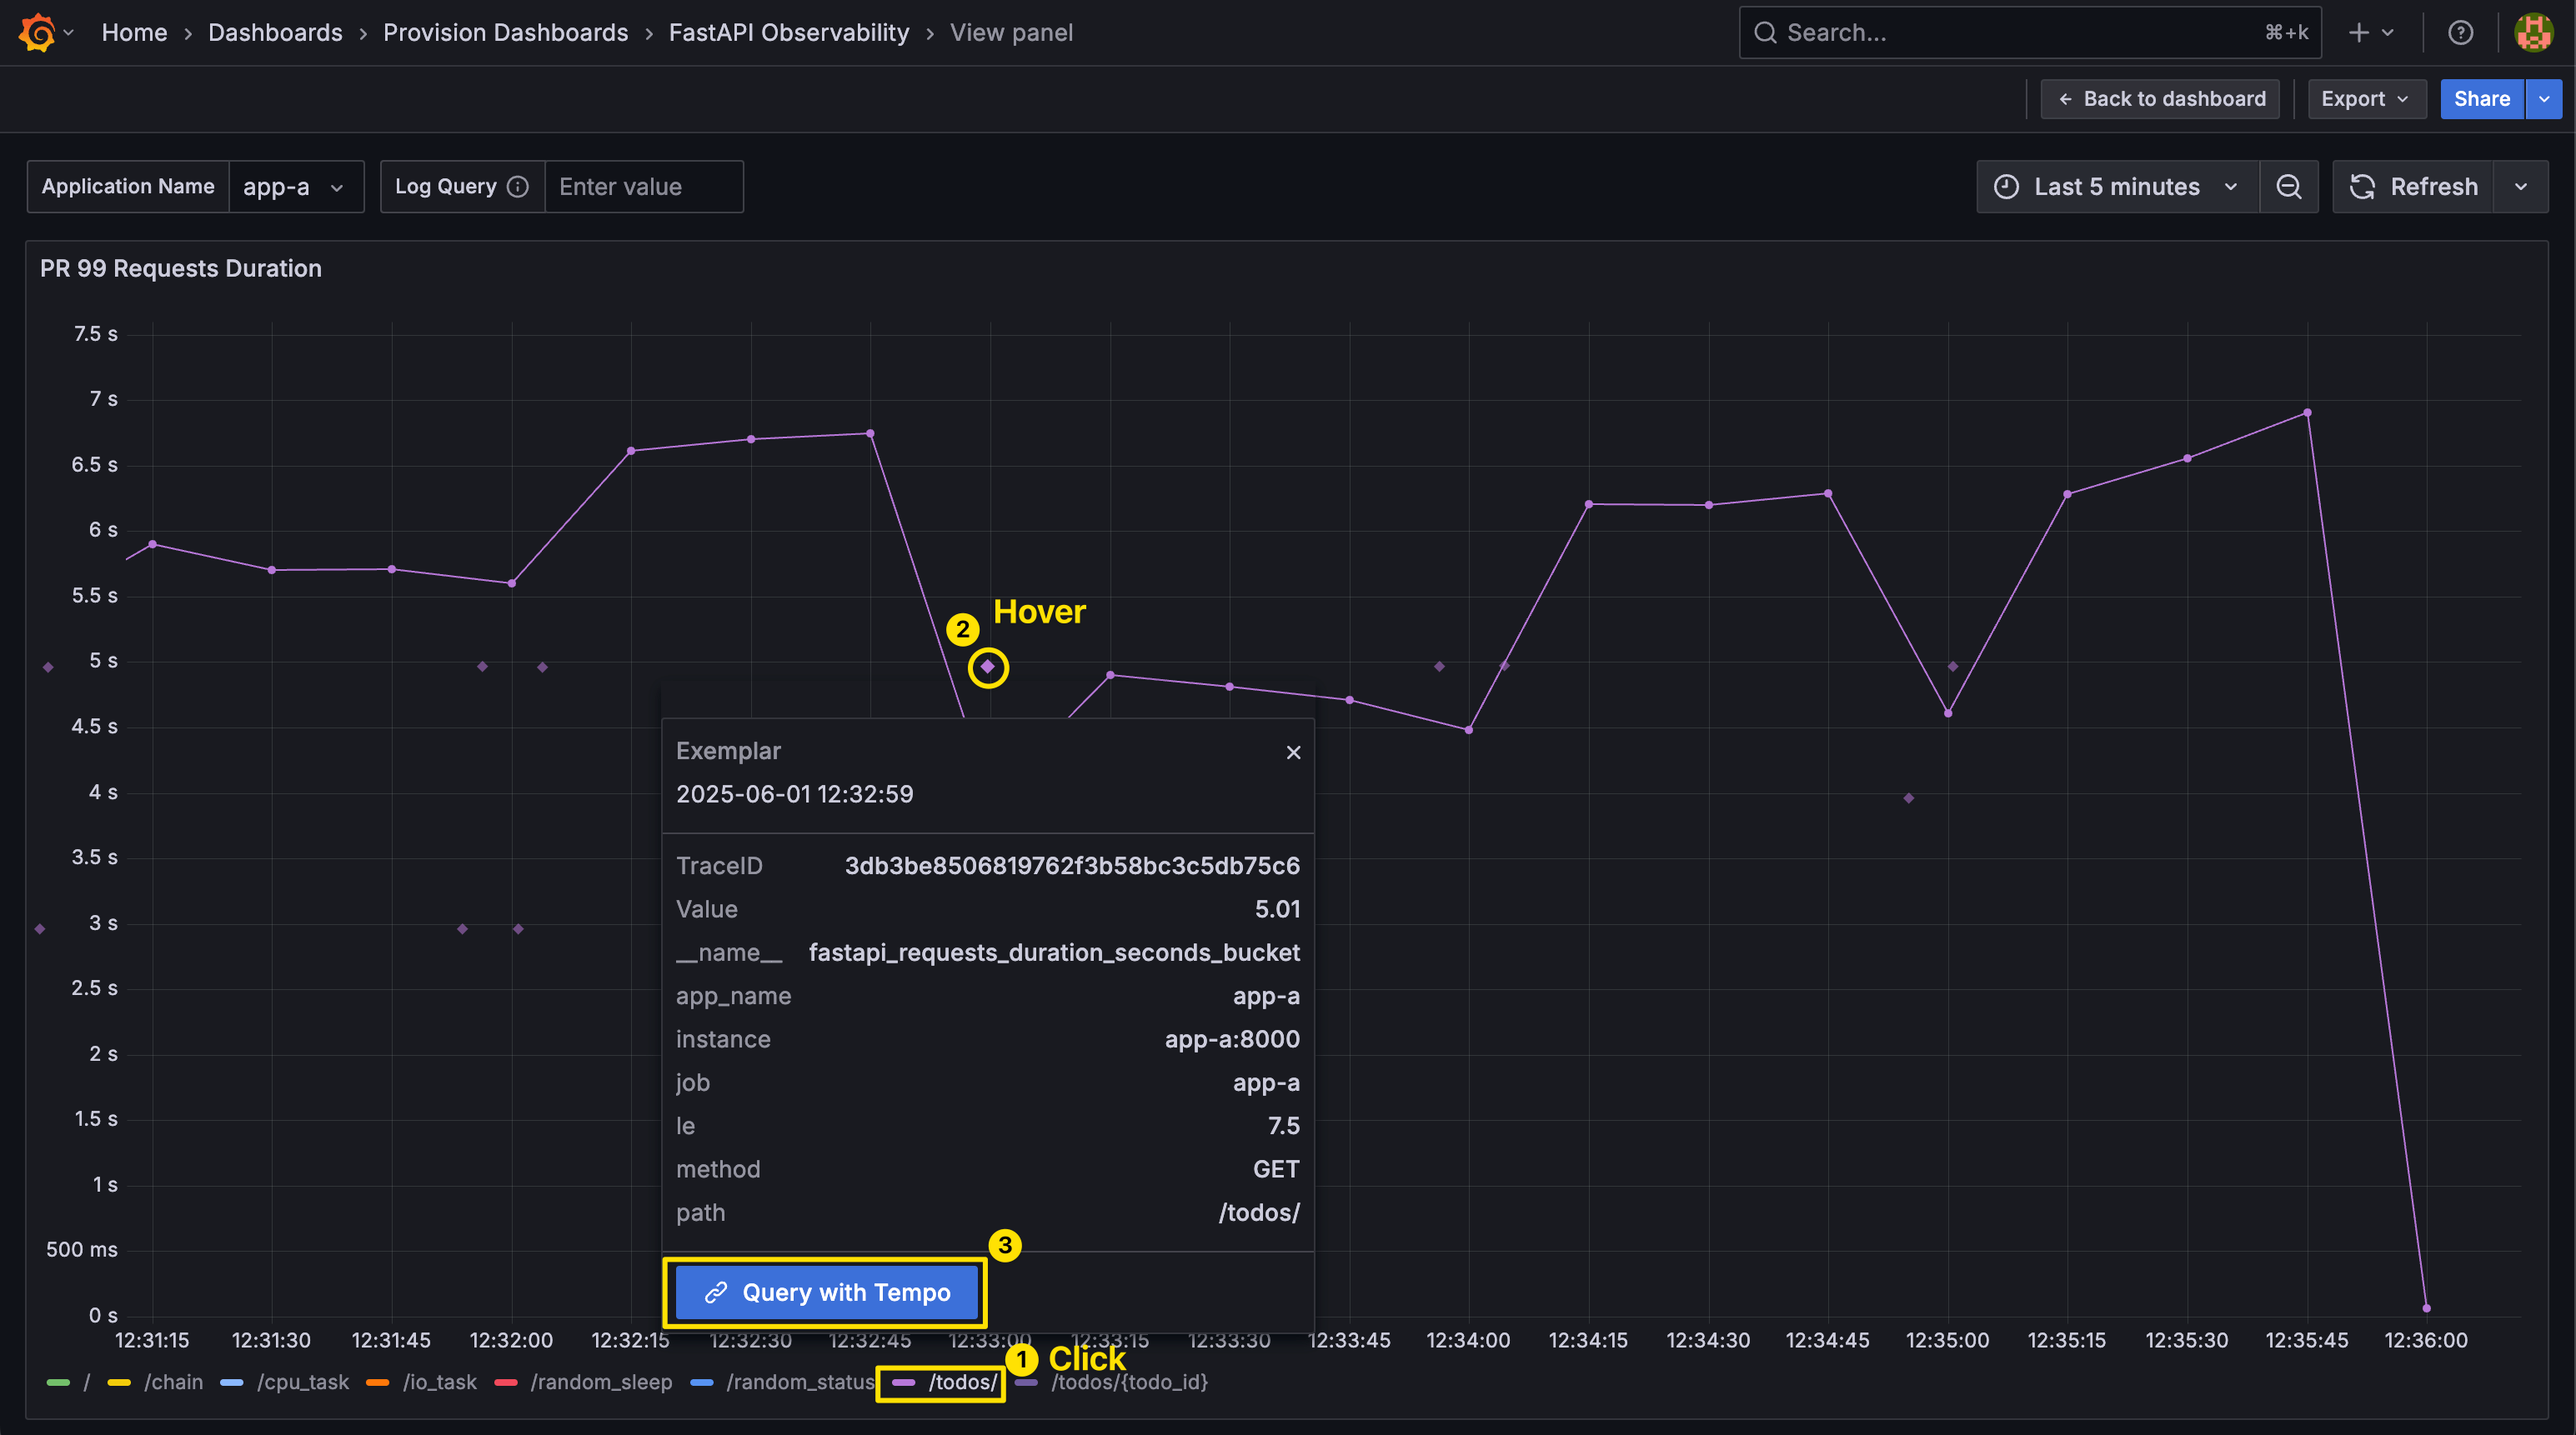
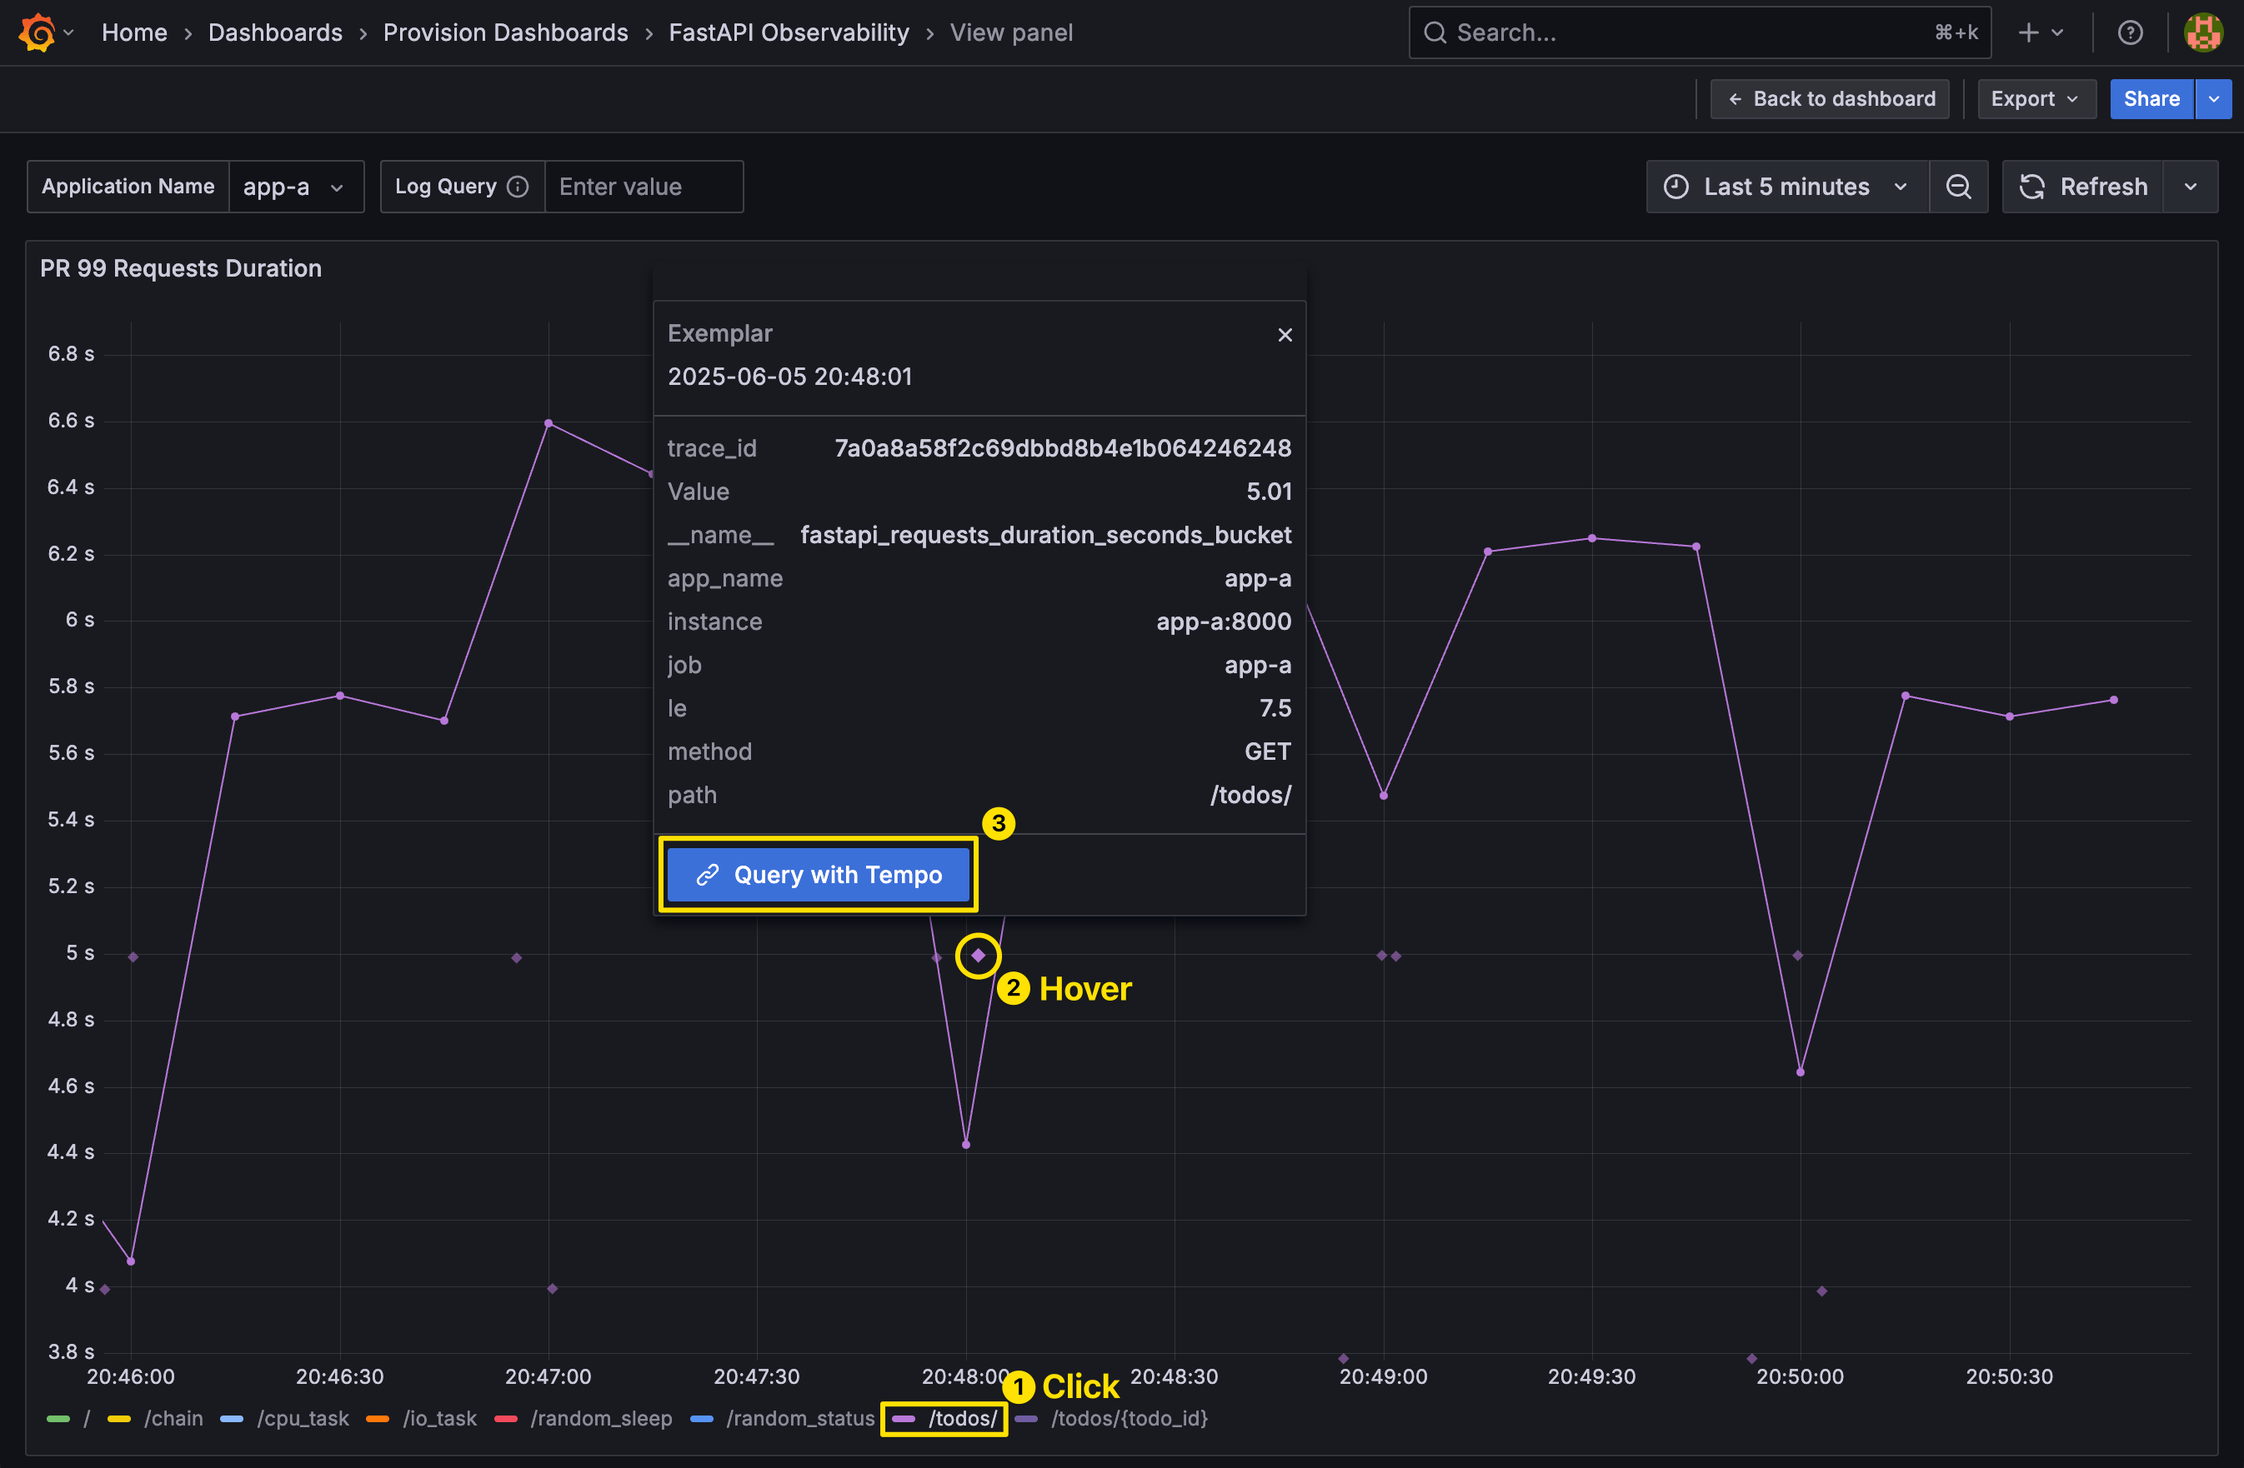
Update exemplar trace id

diff --git a/app/fastapi/utils.py b/app/fastapi/utils.py
@@ -89,7 +89,7 @@ class PrometheusMiddleware(BaseHTTPMiddleware):
 
             REQUESTS_PROCESSING_TIME.labels(
                 method=method, path=path, app_name=self.app_name
-            ).observe(after_time - before_time, exemplar={"TraceID": trace_id})
+            ).observe(after_time - before_time, exemplar={"trace_id": trace_id})
         finally:
             RESPONSES.labels(
                 method=method,

diff --git a/readme.md b/readme.md
@@ -123,7 +123,7 @@ Slide：從零到一：搭建你的第一個 Observability 平台
 
 ![Prometheus Exemplar](images/prometheus-exemplar.png)
 
-查詢 Metrics 時可以看到該 Exemplar 的詳細資訊，其中的 `TraceID` 就會作為 Trace Data Source 的 Trace ID 來查詢。
+查詢 Metrics 時可以看到該 Exemplar 的詳細資訊，其中的 `trace_id` 就會作為 Trace Data Source 的 Trace ID 來查詢。
 
 ### Loki
 
